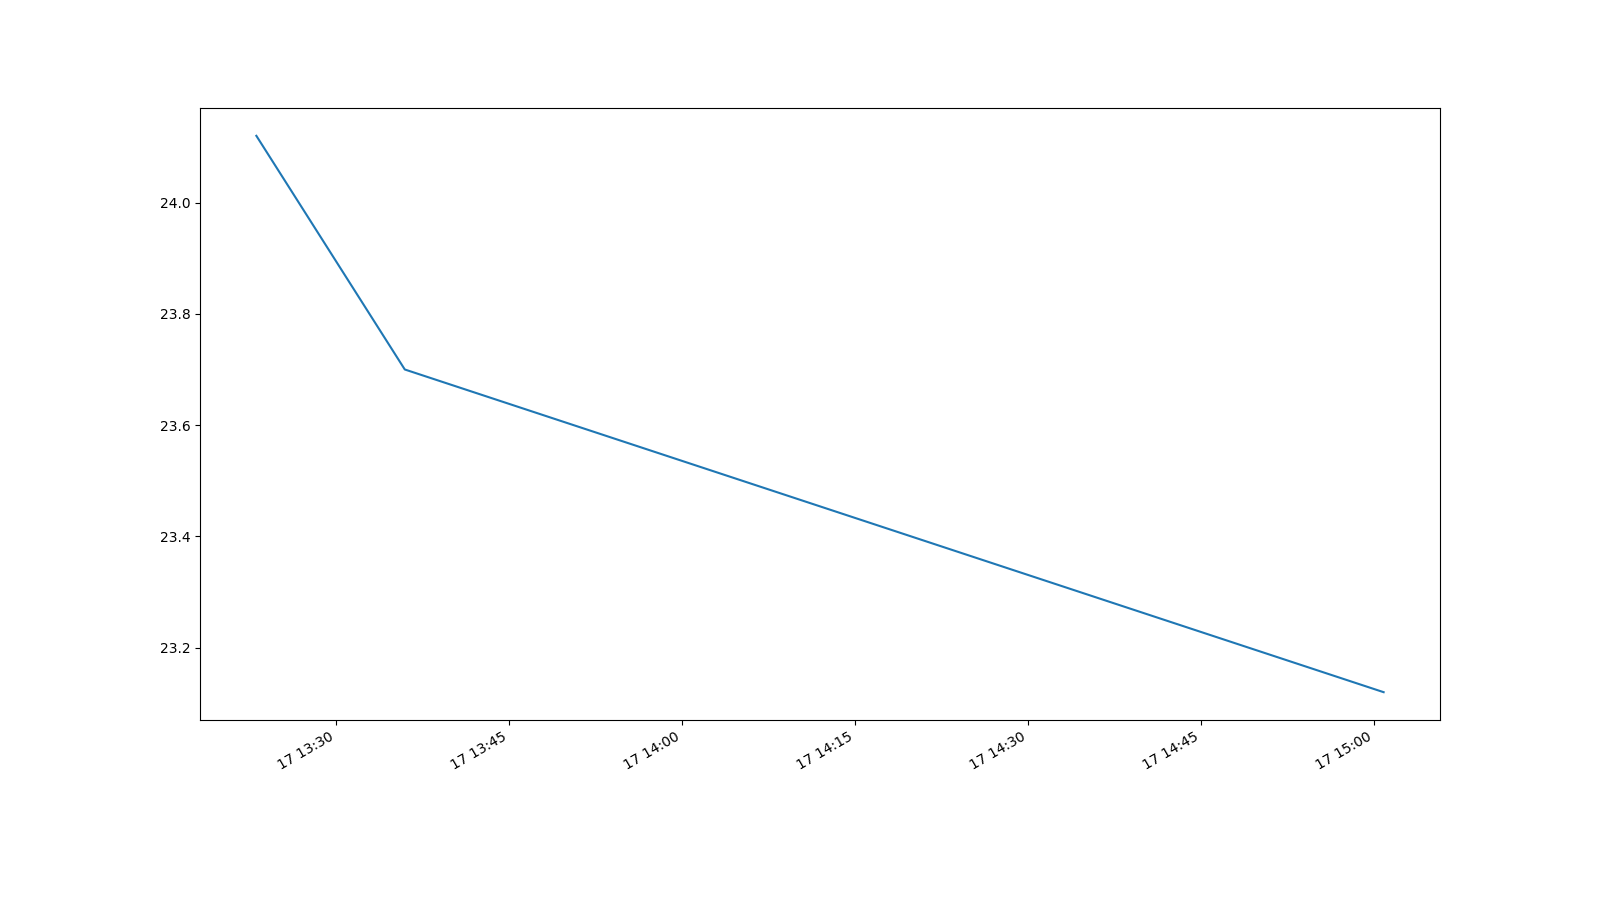
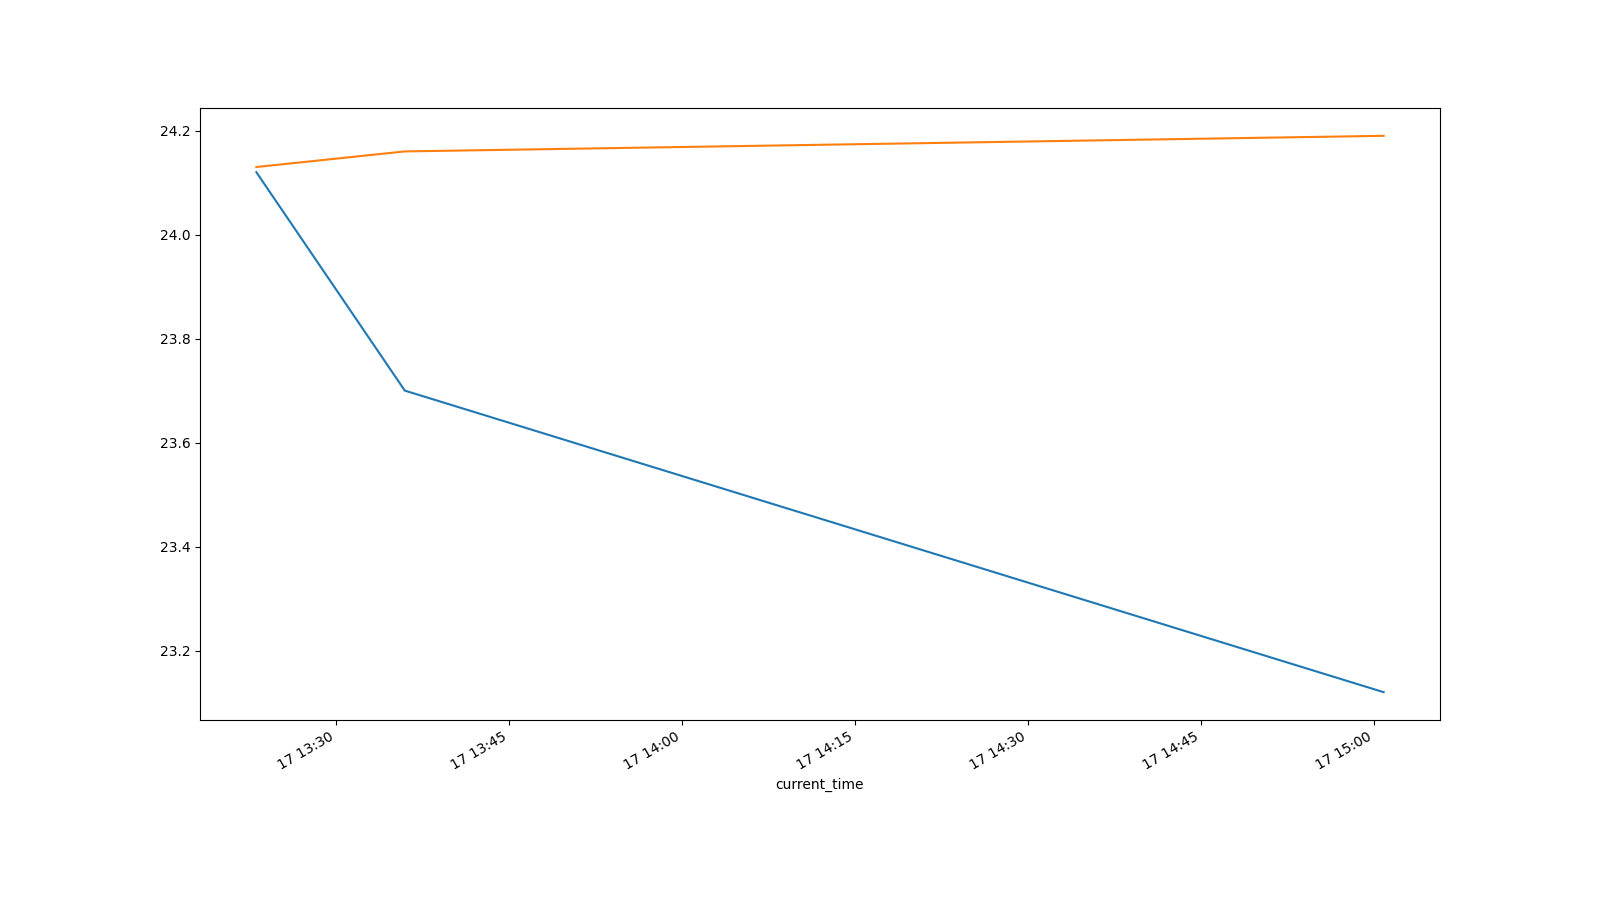
added expected profit

diff --git a/graph.py b/graph.py
@@ -1,5 +1,6 @@
 import matplotlib.pyplot as plt
 import pandas as pd
+import numpy as np
 import datetime
 import time
 
@@ -7,34 +8,23 @@ RETURNS_CSV = 'returns/returns.csv'
 
 
 def plot_bal_time_series_graph(df):
-    y = df['balance']
-
     fig, ax = plt.subplots(figsize=(16, 9), dpi=100)
-    plt.plot(y)
+
+    balance = df['balance']
+    plt.plot(balance)
+
+    expected_return = df['expected_return']
+    starting_balance = [df['balance'][0]]
+    expected_return[0] += starting_balance
+    expected_return.cumsum().plot()
 
     plt.gcf().autofmt_xdate()
     plt.savefig('graphs/balance.png')
 
 
-def plot_expected_profit(df):
-    print(df)
-    balance = df['balance'].iloc[0]
-    print(balance)
-    bal_list = []
-
-    for i in range(len(df)):
-        balance += df['rating'].iloc[i] / 100 * df['ew_stake'].iloc[i]
-        bal_list.append([balance, df['current_time'].iloc[i]])
-    print(bal_list)
-    df = pd.DataFrame(bal_list, columns=['balance', 'current_time'])
-
-    plt.plot(bal_list)
-    plt.gcf().autofmt_xdate()
-    plt.savefig('graphs/expected-returns.png')
-
-
 custom_date_parser = lambda x: datetime.datetime(*(time.strptime(
     x, '%d/%m/%Y %H:%M:%S')[0:6]))
+
 df = pd.read_csv(RETURNS_CSV,
                  header=0,
                  parse_dates=[7],
